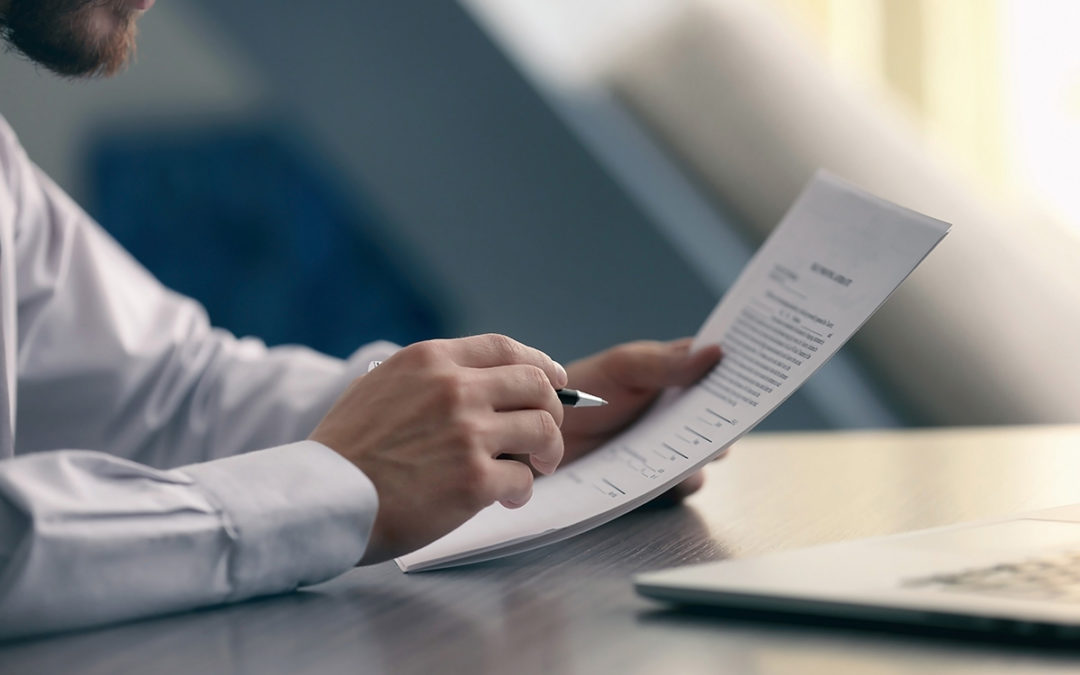
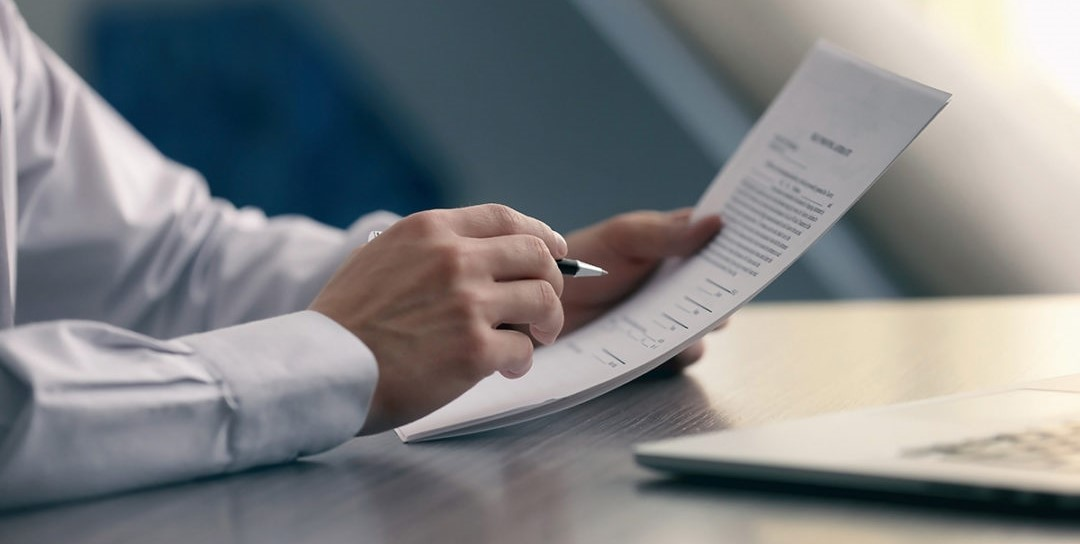
Home page done

diff --git a/web_app/css/style.css b/web_app/css/style.css
@@ -30,22 +30,23 @@ a {
   box-sizing: border-box;
 }
 
-/*************************************/
+/* HEADER */
 #nav1 {
   display: inline-block;
 }
 
 #adresse {
-  margin: 2rem 0rem 0rem 3rem;
+  margin: 3rem 0rem 0rem 3rem;
   font-weight: bold;
   color: rgb(49, 49, 49);
 }
 
 #slogan {
-  margin: -2.2rem 0rem 0rem 33rem;
+  margin: -2.2rem 0rem 0rem 35rem;
   font-size: 2rem;
   font-weight: bold;
   color: rgb(49, 49, 49);
+  text-align: center;
 }
 
 #slogan:hover {
@@ -54,26 +55,29 @@ a {
 }
 
 #tel {
-  margin: -1.9rem 0rem 0rem 115rem;
+  position: absolute;
+  margin: -3.5rem 0rem 0rem 122rem;
   font-weight: bold;
   color: rgb(49, 49, 49);
 }
 
 #nav2 {
-  display: inline-block;
+  margin: 2rem 0rem 0rem 0rem;
   background-color: #f5f5f5;
+  max-width: 100%;
+  height: 7rem;
 }
 
 #logo {
-  max-width: 15rem;
-  margin: 2rem 0rem 0rem 5rem;
+  max-width: 10rem;
+  margin: 0rem 0rem 0rem 5rem;
 }
 
 nav {
   overflow: hidden;
   text-align: center;
   font-size: 1.7rem;
-  margin: -12rem 0rem 0rem 45rem;
+  margin: -8rem 0rem 0rem 45rem;
   font-weight: bold;
 }
 
@@ -83,7 +87,7 @@ nav li {
 
 nav a {
   color: #ff6600;
-  padding: 2.5rem;
+  padding: 4rem;
 }
 
 nav a:hover {
@@ -91,7 +95,20 @@ nav a:hover {
   transition: 0.5s;
 }
 
-#submenu {
+#langue a {
+  font-size: 16px;
+  padding: 14px 16px;
+  color: #ff6600;
+  margin: 0 auto;
+  padding: 0;
+  font-weight: bold;
+}
+
+#langue a:hover {
+  color: #222;
+}
+
+#langue #submenu {
   display: none;
   position: absolute;
   min-width: 16rem;
@@ -100,11 +117,42 @@ nav a:hover {
 #submenu a {
   padding: 12px 16px;
   display: block;
-  margin-right: 20rem;
+  margin-right: 22rem;
   font-size: 1.3rem;
-  margin-top: -1rem;
+  margin-top: 1rem;
+  text-align: center;
 }
 
 #langue:hover #submenu {
   display: block;
+  transition: 0.5s;
+}
+
+/* MAIN */
+
+#homepage {
+  max-width: 100%;
+  margin: 0 auto;
+}
+
+#homepage img {
+  width: 134.5rem;
+}
+
+#ad {
+  color: #f5f5f5;
+}
+
+#ad p {
+  margin: -55rem 0rem 0rem 0rem;
+  text-align: center;
+  font-size: 6rem;
+  font-weight: bold;
+}
+
+#arrow img {
+  max-width: 100%;
+  width: 7rem;
+  margin: 15rem 0rem 0rem 64rem;
+  opacity: 0.7;
 }

diff --git a/web_app/index.html b/web_app/index.html
@@ -20,28 +20,27 @@
           >
         </p>
         <p id="slogan">
+          TRADUCTION / INTERPRÉTARIAT <br />
           LANGUES DE L'AFRIQUE DE L'EST PLUS DE L'ÉTHIOPIE ET L'ÉRYTHRÉE
         </p>
         <p id="tel">07 73 06 60 91</p>
       </section>
 
       <section id="nav2">
-        <img src="./asset/TREAL.png" alt="logo" id="logo" />
+        <img src="./asset/TREAL_V2.png" alt="logo" id="logo" />
         <nav>
           <ul>
-            <li><a href="#">ACCUEIL</a></li>
+            <li><a href="#slogan">ACCUEIL</a></li>
             <li><a href="#">QUI SOMMES-NOUS</a></li>
             <li>
-              <a href="#" id="langue">
-                NOS LANGUES TRADUITES
+              <section id="langue">
+                <a>NOS LANGUES TRADUITES</a>
                 <section id="submenu">
-                  <ul>
-                    <li><a href="#">LANGUES ORIGINAIRE ÉTHIOPIE</a></li>
-                    <li><a href="#">LANGUES ORIGINAIRE ÉRYTHRÉE</a></li>
-                    <li><a href="#">LANGUES ORIGINAIRE ARABE</a></li>
-                  </ul>
+                  <a href="#">LANGUES ORIGINAIRE ÉTHIOPIE</a>
+                  <a href="#">LANGUES ORIGINAIRE ÉRYTHRÉE</a>
+                  <a href="#">LANGUES ORIGINAIRE ARABE</a>
                 </section>
-              </a>
+              </section>
             </li>
             <li><a href="#">CONTACT</a></li>
           </ul>
@@ -49,7 +48,22 @@
       </section>
     </header>
 
-    <main></main>
+    <main>
+      <section id="homepage">
+        <img src="./asset/pub.jpg" />
+      </section>
+
+      <section id="ad">
+        <p>
+          FAITES VOTRE TRADUCTION <br />
+          CHEZ TREAL !
+        </p>
+      </section>
+
+      <section id="arrow">
+        <a href="#"><img src="./asset/arrow.png" /></a>
+      </section>
+    </main>
 
     <footer></footer>
     <script src="./js/app.js"></script>
